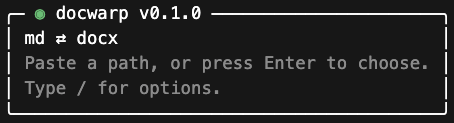
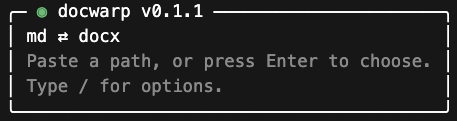
chore(release): update v0.1.1 homebrew and install references

Changed region(s): [[0.0, 0.0248, 0.9868, 0.9421]]

diff --git a/Formula/docwarp.rb b/Formula/docwarp.rb
@@ -2,24 +2,21 @@ class Docwarp < Formula
   desc "Bidirectional Markdown <-> DOCX converter"
   homepage "https://github.com/N10ELabs/docwarp"
   license "Apache-2.0"
-  version "0.1.0"
-  # NOTE: Release workflow generates a checksummed formula per tag and
-  # publishes it as release asset `docwarp.rb`.
-  # This copy remains a template until a tagged release is cut.
+  version "0.1.1"
 
   on_macos do
     if Hardware::CPU.arm?
       url "https://github.com/N10ELabs/docwarp/releases/download/v#{version}/docwarp-macos-aarch64"
[2 lines of base64/hex data omitted]
     else
       url "https://github.com/N10ELabs/docwarp/releases/download/v#{version}/docwarp-macos-x86_64"
[2 lines of base64/hex data omitted]
     end
   end
 
   on_linux do
     url "https://github.com/N10ELabs/docwarp/releases/download/v#{version}/docwarp-linux-x86_64"
[2 lines of base64/hex data omitted]
   end
 
   def install

diff --git a/packaging/homebrew-core/docwarp.rb b/packaging/homebrew-core/docwarp.rb
@@ -1,10 +1,10 @@
-# Generated by scripts/generate_homebrew_core_formula.sh for v0.1.0
+# Generated by scripts/generate_homebrew_core_formula.sh for v0.1.1
 # Regenerate this formula for every release tag.
 class Docwarp < Formula
   desc "Bidirectional Markdown <-> DOCX converter"
   homepage "https://github.com/N10ELabs/docwarp"
-  url "https://github.com/N10ELabs/docwarp/archive/refs/tags/v0.1.0.tar.gz"
[1 lines of base64/hex data omitted]
+  url "https://github.com/N10ELabs/docwarp/archive/refs/tags/v0.1.1.tar.gz"
[1 lines of base64/hex data omitted]
   license "Apache-2.0"
 
   depends_on "rust" => :build

diff --git a/docs/install.md b/docs/install.md
@@ -18,7 +18,7 @@ You can verify downloaded files with `checksums.txt` from the same release.
 ```bash
 # Example: Linux x86_64
 curl -fL -o docwarp \
-  https://github.com/N10ELabs/docwarp/releases/download/v0.1.0/docwarp-linux-x86_64
+  https://github.com/N10ELabs/docwarp/releases/download/v0.1.1/docwarp-linux-x86_64
 
 chmod +x ./docwarp
 ./docwarp --help
@@ -28,7 +28,7 @@ chmod +x ./docwarp
 
 ```powershell
 Invoke-WebRequest `
-  -Uri "https://github.com/N10ELabs/docwarp/releases/download/v0.1.0/docwarp-windows-x86_64.exe" `
+  -Uri "https://github.com/N10ELabs/docwarp/releases/download/v0.1.1/docwarp-windows-x86_64.exe" `
   -OutFile ".\docwarp.exe"
 
 .\docwarp.exe --help
@@ -50,7 +50,7 @@ If you need to install from a specific release formula file:
 
 ```bash
 curl -fL -o docwarp.rb \
-  https://github.com/N10ELabs/docwarp/releases/download/v0.1.0/docwarp.rb
+  https://github.com/N10ELabs/docwarp/releases/download/v0.1.1/docwarp.rb
 
 brew install --formula ./docwarp.rb
 ```

diff --git a/docs/homebrew-core.md b/docs/homebrew-core.md
@@ -11,9 +11,9 @@ That only works after `docwarp` is merged into `homebrew/core`.
 ## Prerequisites
 
 - GitHub repository visibility is **public**.
-- A release tag exists (for example `v0.1.0`).
+- A release tag exists (for example `v0.1.1`).
 - You can download the source archive URL:
-  - `https://github.com/N10ELabs/docwarp/archive/refs/tags/v0.1.0.tar.gz`
+  - `https://github.com/N10ELabs/docwarp/archive/refs/tags/v0.1.1.tar.gz`
 
 ## Generate a Core-Candidate Formula
 
@@ -23,7 +23,7 @@ From repo root:
 scripts/generate_homebrew_core_formula.sh \
   N10ELabs \
   docwarp \
-  v0.1.0 \
+  v0.1.1 \
   packaging/homebrew-core/docwarp.rb
 ```
 

diff --git a/docs/release.md b/docs/release.md
@@ -2,13 +2,13 @@
 
 ## Prerelease Validation
 
-Use a prerelease tag to validate the end-to-end release workflow before `v0.1.0`.
+Use a prerelease tag to validate the end-to-end release workflow before `v0.1.1`.
 
 Example:
 
 ```bash
-git tag v0.1.0-rc.1
-git push origin v0.1.0-rc.1
+git tag v0.1.1-rc.1
+git push origin v0.1.1-rc.1
 ```
 
 Expected workflow behavior:
@@ -33,8 +33,8 @@ Manual checks after workflow completion:
 After prerelease validation succeeds, create the stable tag:
 
 ```bash
-git tag v0.1.0
-git push origin v0.1.0
+git tag v0.1.1
+git push origin v0.1.1
 ```
 
 Then:
